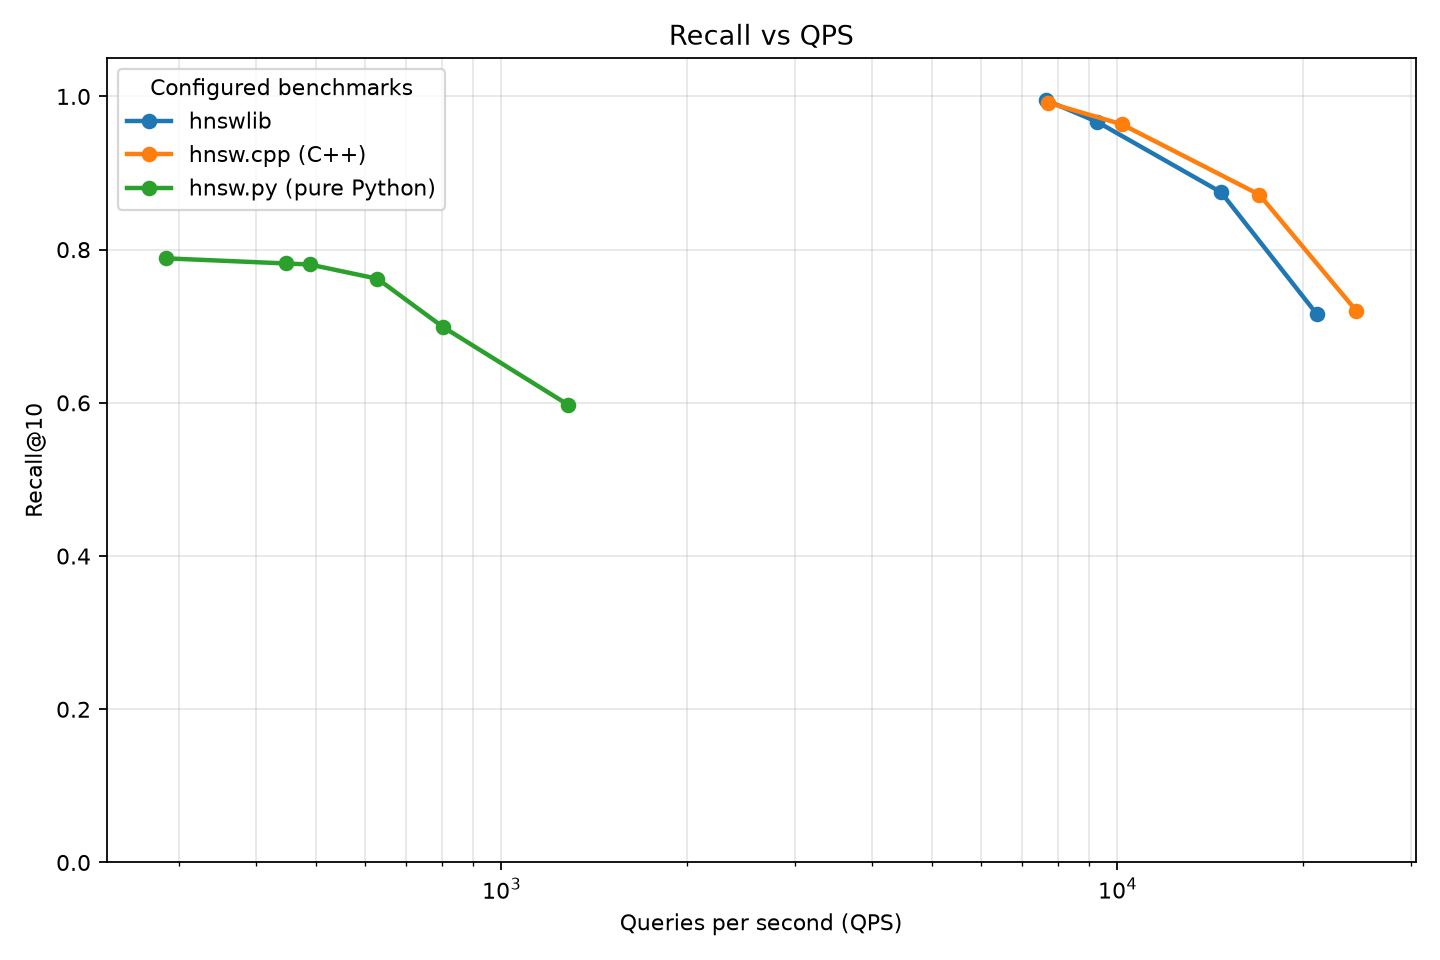
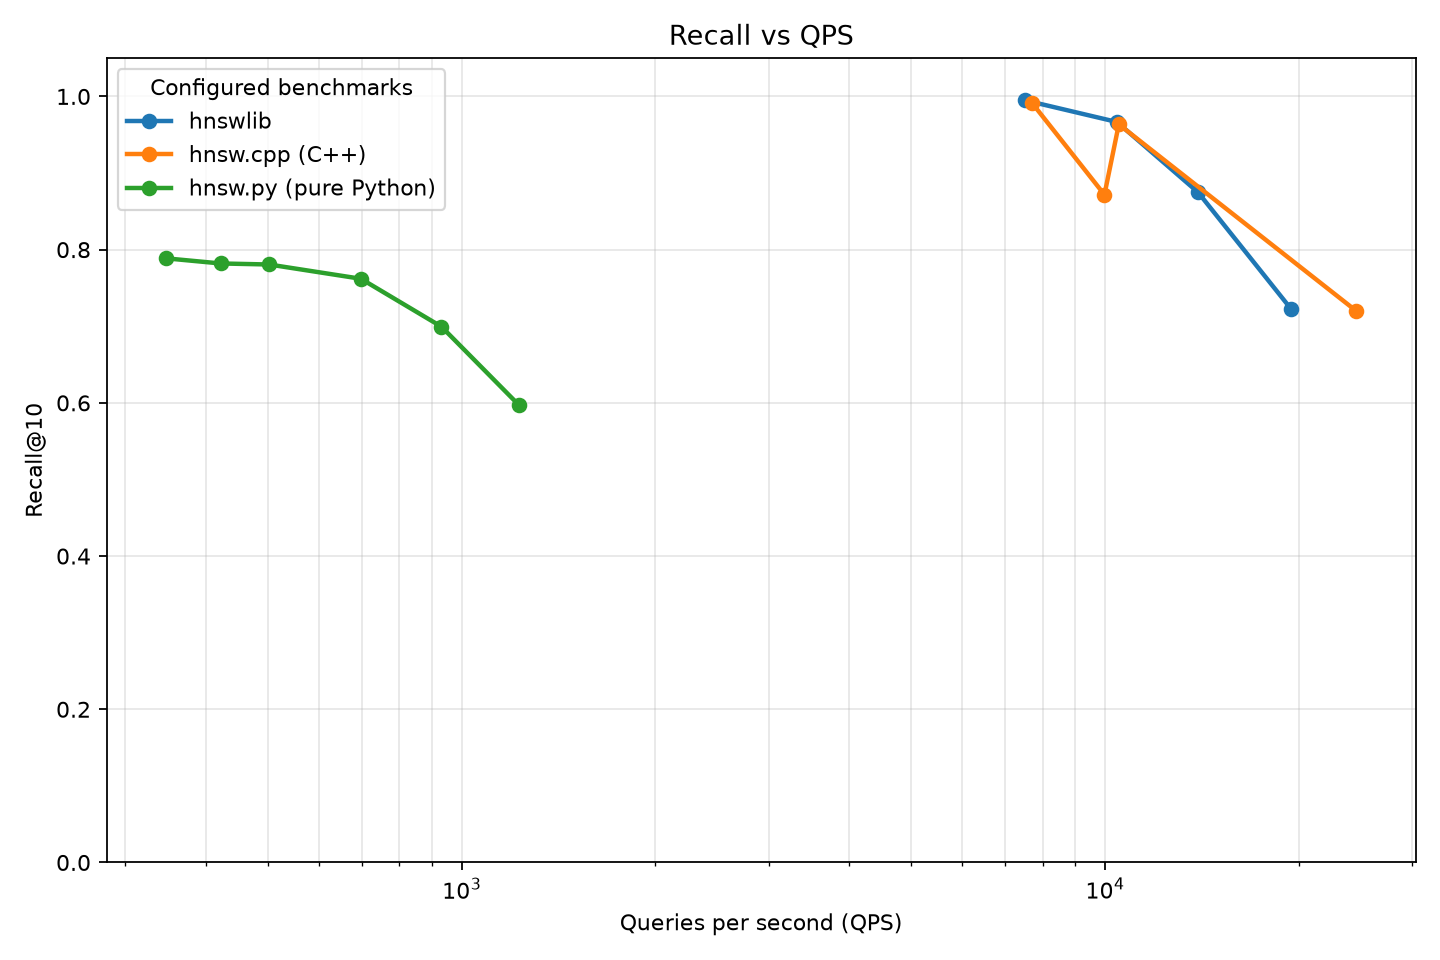
feat(hnsw.cpp): add bloom-filter visited set

diff --git a/apps/hnsw.cpp/src/hnsw.cpp b/apps/hnsw.cpp/src/hnsw.cpp
@@ -11,6 +11,17 @@
 
 namespace hnsw {
 
+namespace {
+
+std::uint64_t splitmix64(std::uint64_t value) {
+    value += 0x9e3779b97f4a7c15ULL;
+    value = (value ^ (value >> 30)) * 0xbf58476d1ce4e5b9ULL;
+    value = (value ^ (value >> 27)) * 0x94d049bb133111ebULL;
+    return value ^ (value >> 31);
+}
+
+}  // namespace
+
 Space parse_space(std::string_view name) {
     if (name == "cosine") {
         return Space::Cosine;
@@ -34,6 +45,28 @@ const char* space_name(Space space) noexcept {
             return "l2";
         case Space::InnerProduct:
             return "ip";
+    }
+    return "unknown";
+}
+
+VisitedMode parse_visited_mode(std::string_view name) {
+    if (name == "epoch") {
+        return VisitedMode::Epoch;
+    }
+    if (name == "bloom") {
+        return VisitedMode::Bloom;
+    }
+    throw std::invalid_argument(
+        "Unsupported visited mode '" + std::string(name) +
+        "'. Use one of: epoch, bloom");
+}
+
+const char* visited_mode_name(VisitedMode mode) noexcept {
+    switch (mode) {
+        case VisitedMode::Epoch:
+            return "epoch";
+        case VisitedMode::Bloom:
+            return "bloom";
     }
     return "unknown";
 }
@@ -214,6 +247,45 @@ bool Index::mark_visited(NodeId node) const {
     return true;
 }
 
+void Index::BloomFilter::reset(std::size_t expected_visits) {
+    const std::size_t desired =
+        std::max<std::size_t>(64, expected_visits * 10);
+    std::size_t count = 64;
+    while (count < desired && count < (std::size_t{1} << 24)) {
+        count <<= 1;
+    }
+
+    if (bit_count != count) {
+        bit_count = count;
+        bits.assign(bit_count / 64, 0);
+    } else {
+        std::fill(bits.begin(), bits.end(), 0);
+    }
+    hash_count = 7;
+}
+
+bool Index::BloomFilter::insert_if_absent(NodeId value) {
+    const std::uint64_t first = splitmix64(value);
+    const std::uint64_t second =
+        splitmix64(static_cast<std::uint64_t>(value) ^
+                   0x9e3779b97f4a7c15ULL) |
+        1ULL;
+    const std::size_t mask = bit_count - 1;
+
+    bool was_absent = false;
+    for (std::size_t hash = 0; hash < hash_count; ++hash) {
+        const std::size_t position =
+            static_cast<std::size_t>(first + hash * second) & mask;
+        std::uint64_t& word = bits[position >> 6];
+        const std::uint64_t bit = std::uint64_t{1} << (position & 63);
+        if ((word & bit) == 0) {
+            was_absent = true;
+            word |= bit;
+        }
+    }
+    return was_absent;
+}
+
 Index::NodeId Index::greedy(const PreparedVector& query,
                            NodeId entry,
                            Level layer) const {
@@ -246,7 +318,16 @@ std::vector<Index::Candidate> Index::search_layer(
     std::size_t requested_ef,
     Level layer) const {
     const std::size_t ef = std::max<std::size_t>(1, requested_ef);
-    begin_visit_epoch();
+    const bool use_bloom = config_.visited_mode == VisitedMode::Bloom;
+    if (use_bloom) {
+        bloom_filter_.reset(std::max<std::size_t>(64, ef * 32));
+    } else {
+        begin_visit_epoch();
+    }
+    const auto first_visit = [this, use_bloom](NodeId node) {
+        return use_bloom ? bloom_filter_.insert_if_absent(node)
+                         : mark_visited(node);
+    };
 
     using Scored = std::pair<double, NodeId>;
     struct ResultLess {
@@ -263,7 +344,7 @@ std::vector<Index::Candidate> Index::search_layer(
     std::priority_queue<Scored, std::vector<Scored>, ResultLess> results;
 
     for (const NodeId node : entry_points) {
-        if (!mark_visited(node)) {
+        if (!first_visit(node)) {
             continue;
         }
         const double node_distance = distance(query, node);
@@ -285,7 +366,7 @@ std::vector<Index::Candidate> Index::search_layer(
 
         for (const NodeId neighbor :
              links_[candidate.second][static_cast<std::size_t>(layer)]) {
-            if (!mark_visited(neighbor)) {
+            if (!first_visit(neighbor)) {
                 continue;
             }
 

diff --git a/apps/hnsw.cpp/include/hnsw/hnsw.hpp b/apps/hnsw.cpp/include/hnsw/hnsw.hpp
@@ -10,9 +10,12 @@
 namespace hnsw {
 
 enum class Space { Cosine, L2, InnerProduct };
+enum class VisitedMode { Epoch, Bloom };
 
 Space parse_space(std::string_view name);
 const char* space_name(Space space) noexcept;
+VisitedMode parse_visited_mode(std::string_view name);
+const char* visited_mode_name(VisitedMode mode) noexcept;
 
 struct Config {
     std::size_t dim;
@@ -22,6 +25,7 @@ struct Config {
     std::size_t ef_search = 50;
     std::uint64_t seed = 100;
     bool heuristic = true;
+    VisitedMode visited_mode = VisitedMode::Bloom;
 };
 
 struct SearchResult {
@@ -80,6 +84,15 @@ private:
         float abs2 = 0.0f;
     };
 
+    struct BloomFilter {
+        void reset(std::size_t expected_visits);
+        bool insert_if_absent(NodeId value);
+
+        std::vector<std::uint64_t> bits;
+        std::size_t bit_count = 0;
+        std::size_t hash_count = 1;
+    };
+
     void insert_prepared(const std::int16_t* prepared,
                          float scale,
                          float abs2,
@@ -122,6 +135,7 @@ private:
     std::mt19937_64 rng_;
     mutable std::vector<std::uint32_t> visited_marks_;
     mutable std::uint32_t visit_epoch_ = 0;
+    mutable BloomFilter bloom_filter_;
     std::vector<std::int16_t> quantization_buffer_;
 };
 

diff --git a/apps/hnsw.cpp/src/bindings.cpp b/apps/hnsw.cpp/src/bindings.cpp
@@ -90,7 +90,8 @@ PYBIND11_MODULE(hnsw_cpp, module) {
                          std::size_t ef_construction,
                          std::size_t ef_search,
                          std::uint64_t seed,
-                         bool heuristic) {
+                         bool heuristic,
+                         const std::string& visited_mode) {
                  return std::make_unique<hnsw::Index>(hnsw::Config{
                      dim,
                      hnsw::parse_space(space),
@@ -99,6 +100,7 @@ PYBIND11_MODULE(hnsw_cpp, module) {
                      ef_search,
                      seed,
                      heuristic,
+                     hnsw::parse_visited_mode(visited_mode),
                  });
              }),
              py::arg("dim"),
@@ -107,7 +109,8 @@ PYBIND11_MODULE(hnsw_cpp, module) {
              py::arg("ef_construction") = 200,
              py::arg("ef_search") = 50,
              py::arg("seed") = 100,
-             py::arg("heuristic") = true)
+             py::arg("heuristic") = true,
+             py::arg("visited_mode") = "bloom")
         .def(
             "add_items",
             [](hnsw::Index& index, py::object vectors, py::object labels) {

diff --git a/apps/hnsw.cpp/tests/test_hnsw.cpp b/apps/hnsw.cpp/tests/test_hnsw.cpp
@@ -252,6 +252,23 @@ void test_dimension_mismatch_raises() {
 
 void test_invalid_space_raises() {
     CHECK_THROW(hnsw::parse_space("manhattan"), std::invalid_argument);
+    CHECK_THROW(hnsw::parse_visited_mode("cuckoo"), std::invalid_argument);
+}
+
+void test_visited_modes() {
+    constexpr std::size_t dim = 8;
+    constexpr std::size_t count = 100;
+    const std::vector<float> vectors = make_vectors(count, dim, 14);
+
+    for (const hnsw::VisitedMode mode :
+         {hnsw::VisitedMode::Epoch, hnsw::VisitedMode::Bloom}) {
+        hnsw::Index index(hnsw::Config{
+            dim, hnsw::Space::Cosine, 8, 100, 50, 15, true, mode,
+        });
+        index.add_items(vectors.data(), count);
+        const hnsw::SearchResult result = index.search(vectors.data(), 5);
+        CHECK(result.labels.size() == 5);
+    }
 }
 
 void test_invalid_parameters_raise() {
@@ -326,6 +343,7 @@ int main() {
     test_empty_index_raises();
     test_dimension_mismatch_raises();
     test_invalid_space_raises();
+    test_visited_modes();
     test_invalid_parameters_raise();
     test_set_ef();
     test_index_size_is_positive();

diff --git a/scripts/bench/bench/systems/hnsw_cpp.py b/scripts/bench/bench/systems/hnsw_cpp.py
@@ -18,6 +18,7 @@ def _build(train: np.ndarray, params: Mapping[str, Any]) -> tuple[Any, float]:
         ef_search=int(params.get("ef", 50)),
         seed=int(params.get("seed", 100)),
         heuristic=bool(params.get("heuristic", True)),
+        visited_mode=str(params.get("visited_mode", "bloom")),
     )
 
     labels = np.arange(train.shape[0], dtype=np.uint64)

diff --git a/apps/hnsw.cpp/README.md b/apps/hnsw.cpp/README.md
@@ -15,7 +15,8 @@ library; Python bindings are provided with pybind11.
 - Heuristic neighbour selection with bidirectional links and pruning
 - Deterministic level assignment via a seed
 - Single-threaded, no runtime dependencies
-- `int16` vector storage with per-vector scaling and reusable visited marks
+- `int16` vector storage with per-vector scaling
+- Epoch-based or Bloom-filter visited sets during layer search
 
 ## Build
 
@@ -101,6 +102,7 @@ the benchmark.
 | `ef_search` | Default candidate-list size while querying |
 | `seed` | Seed for deterministic random levels |
 | `heuristic` | Use the paper's neighbour-selection heuristic |
+| `visited_mode` | `epoch` for exact per-search marks, `bloom` for a compact probabilistic set |
 
 ## Demo
 
